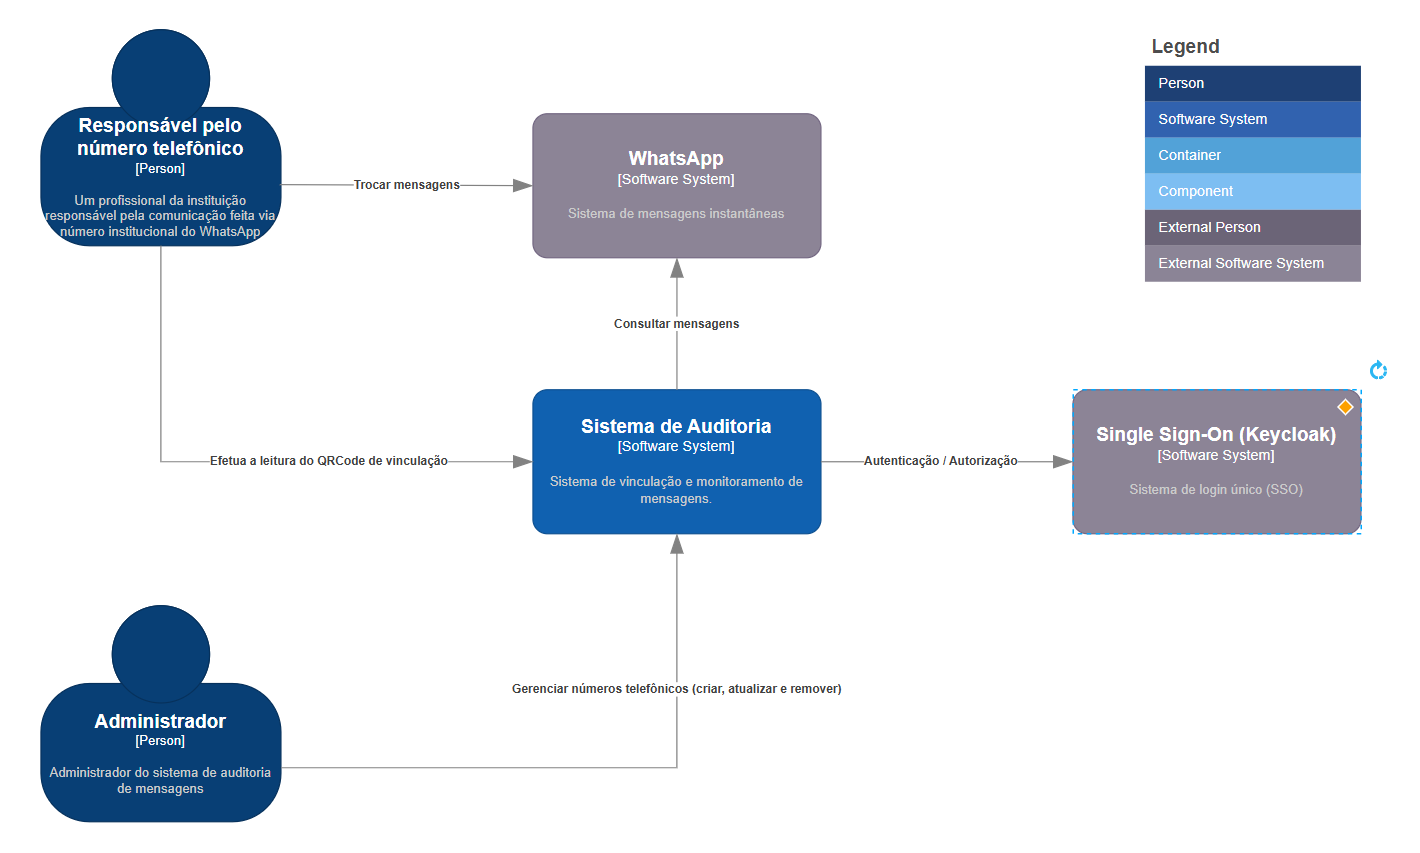
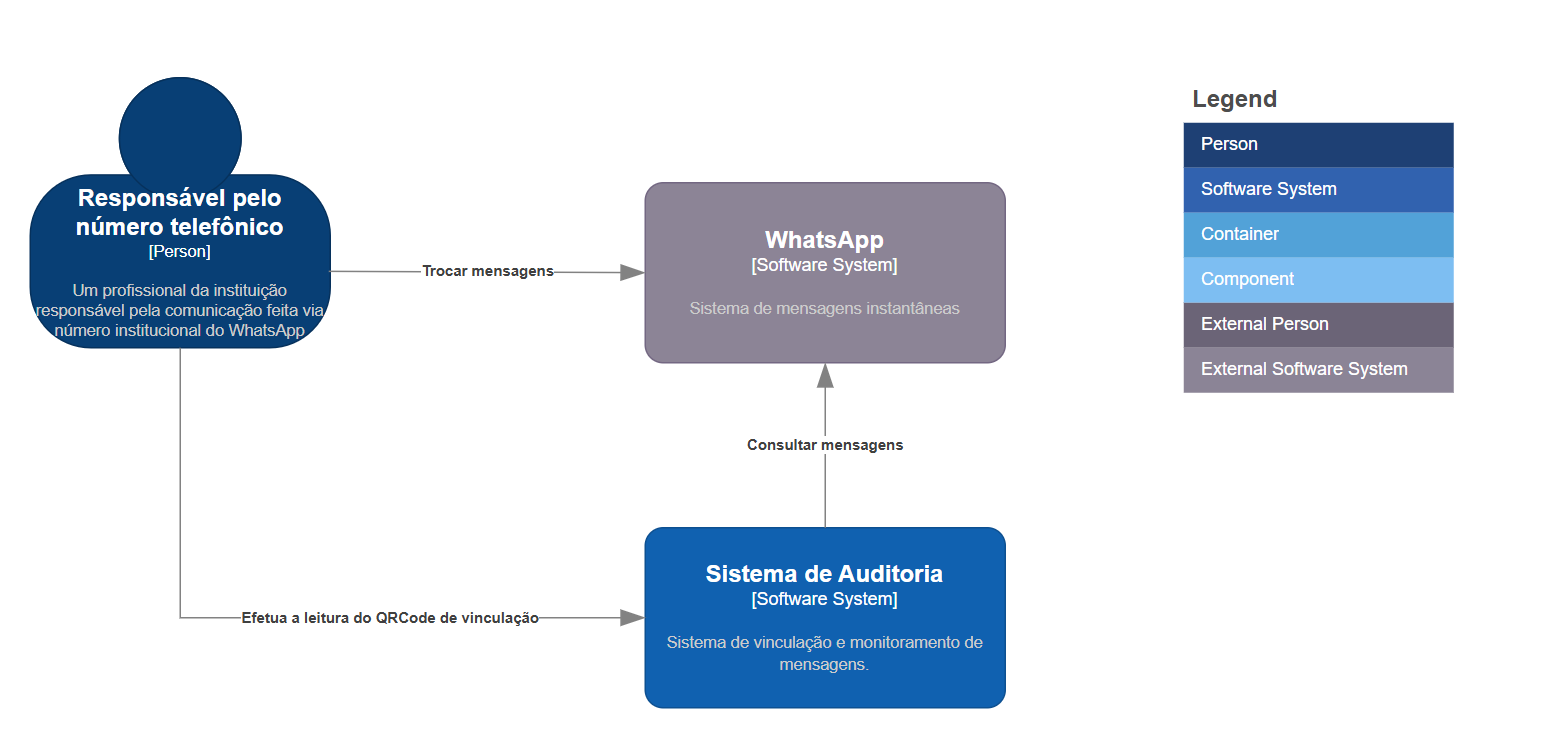
atualiza nomenclatura das imagens

diff --git a/architectural-modeling-c4-model/02-context.md b/architectural-modeling-c4-model/02-context.md
@@ -91,7 +91,7 @@ Sistema de Auditoria de mensagens do WhatsApp.
 
 ### Visualização do contexto inicial
 
-![](./../images/002-context-inicial.png)
+![](../images/002-context.png)
 
 ### Interpretação
 
@@ -160,7 +160,7 @@ Exemplo:
 
 ### Diagrama de contexto evoluído
 
-![](./../images/002-context.png)
+![](../images/003-context.png)
 
 ### Interpretação da evolução
 